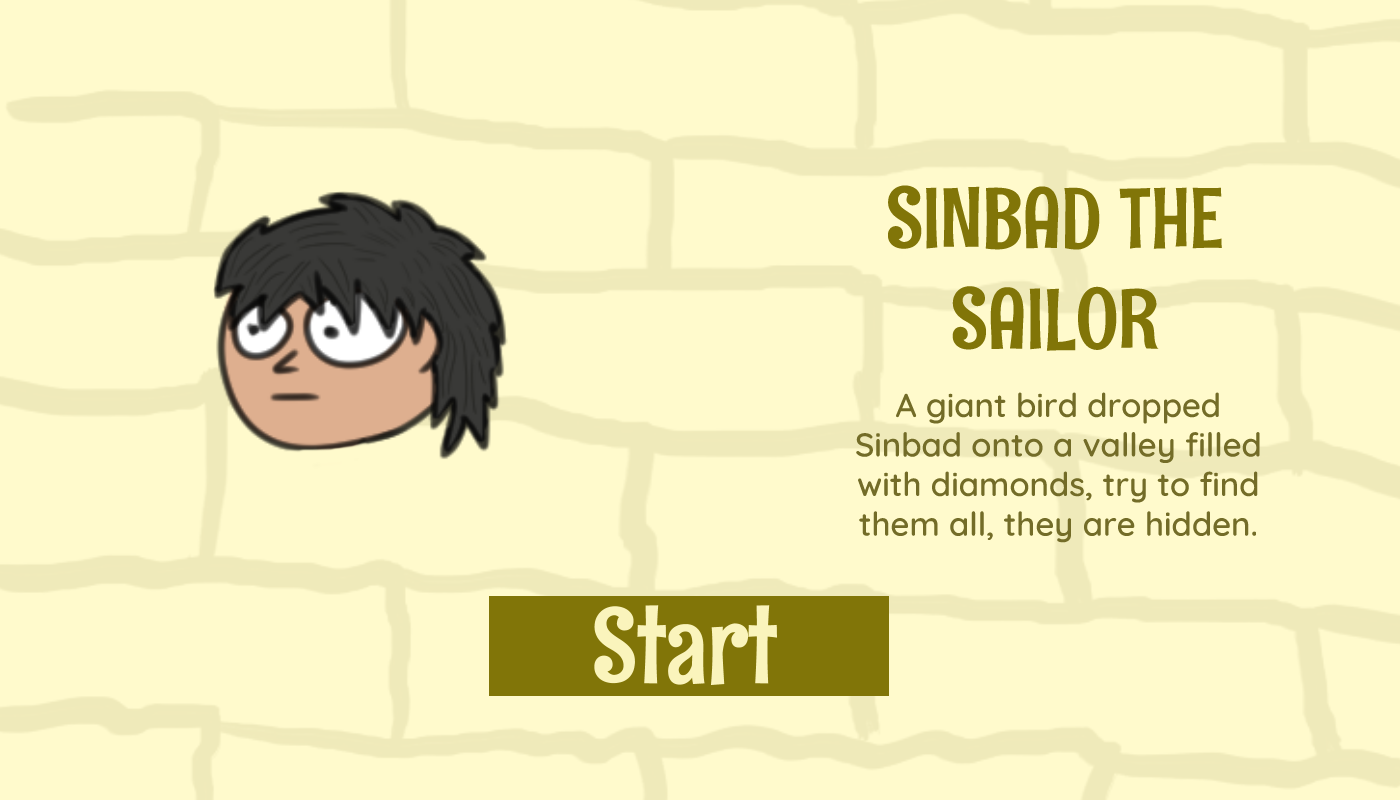
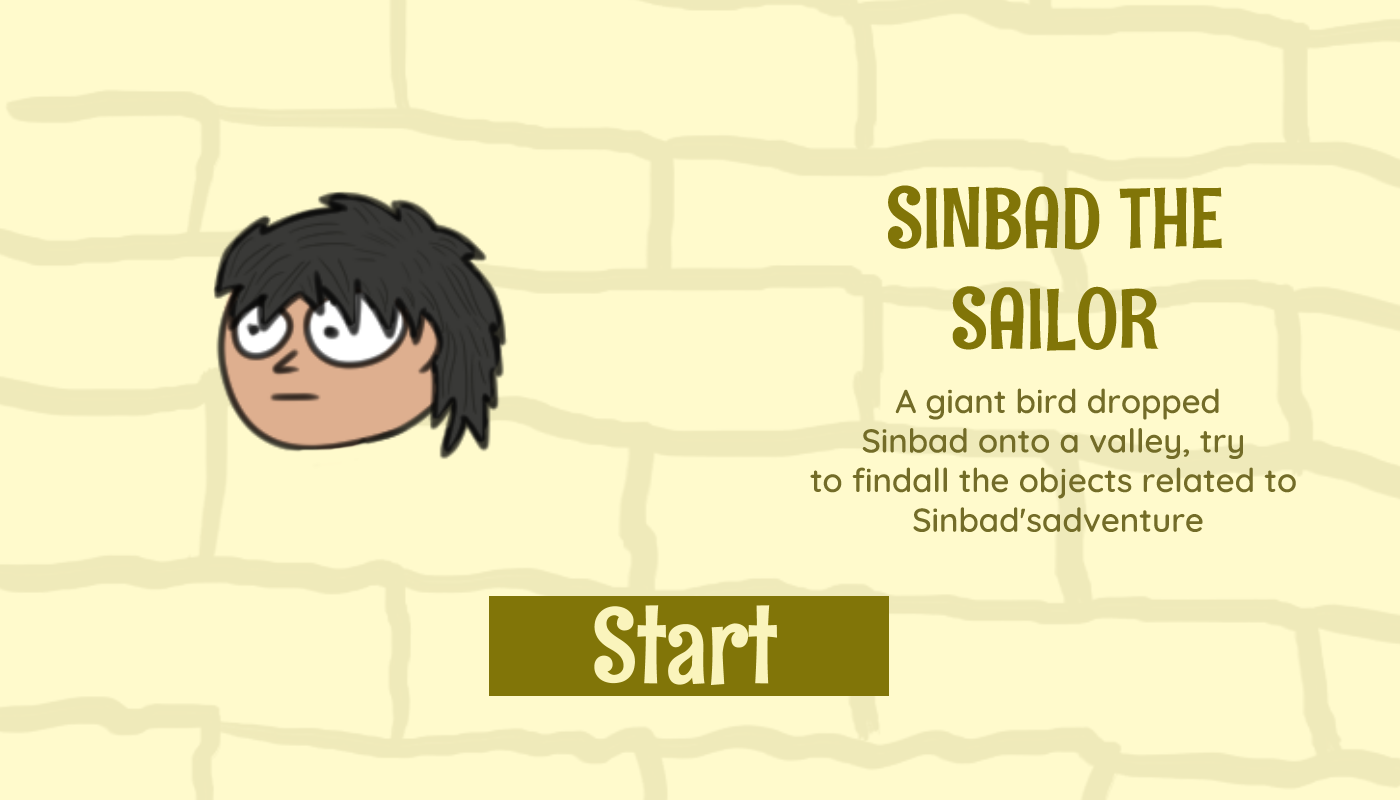
made advancements on linking the text file

Changed region(s): [[0.5836, 0.4688, 0.9214, 0.6875]]

diff --git a/story/src/view/Principal.java b/story/src/view/Principal.java
@@ -1,6 +1,9 @@
 package view;
+import java.util.ArrayList;
+
 import controller.Controller;
 import model.elements;
+import model.word;
 import processing.core.PApplet;
 import processing.core.PImage;
 
@@ -28,9 +31,17 @@ public class Principal extends PApplet
 	public static int posX, posY, posX1, posY1, posX2, posY2, posX3, posY3, posX4, posY4;
 	boolean barrelInteracted, braceInteracted, coinsInteracted, diamondInteracted, eggInteracted;
 	
+	String[] text;
+	String[] separatedText;
+	
+	private ArrayList<word> words;
+
 	@Override
 	public void setup() //void Start
 	{
+		text = loadStrings("tale.txt");
+		words = new ArrayList<word>();
+		
 		startScreen = loadImage("backGround.png");
 		gameScreen = loadImage("game screen.png");
 		paralax = loadImage("paralax.png");
@@ -59,6 +70,15 @@ public class Principal extends PApplet
 		posY3 = 588;
 		posX4 = 512;
 		posY4 = 449;
+		
+		for(int i = 0; i < text.length; i++)
+		{
+			String[] arrayWords = text[i].split(" ");
+			for(int j = 0; j < arrayWords.length; j++)
+			{
+				words.add(new word(arrayWords[j]));
+			}
+		}
 	}
 	
 	@Override

diff --git a/story/src/model/word.java b/story/src/model/word.java
@@ -1,0 +1,22 @@
+package model;
+
+import processing.core.PApplet;
+
+public class word 
+{
+	private String value;
+	
+	public word(String value) 
+	{
+        this.value = value;
+	}
+	
+	public String getValue() {
+		return value;
+	}
+
+	public void setValue(String value) {
+		this.value = value;
+	}
+
+}
